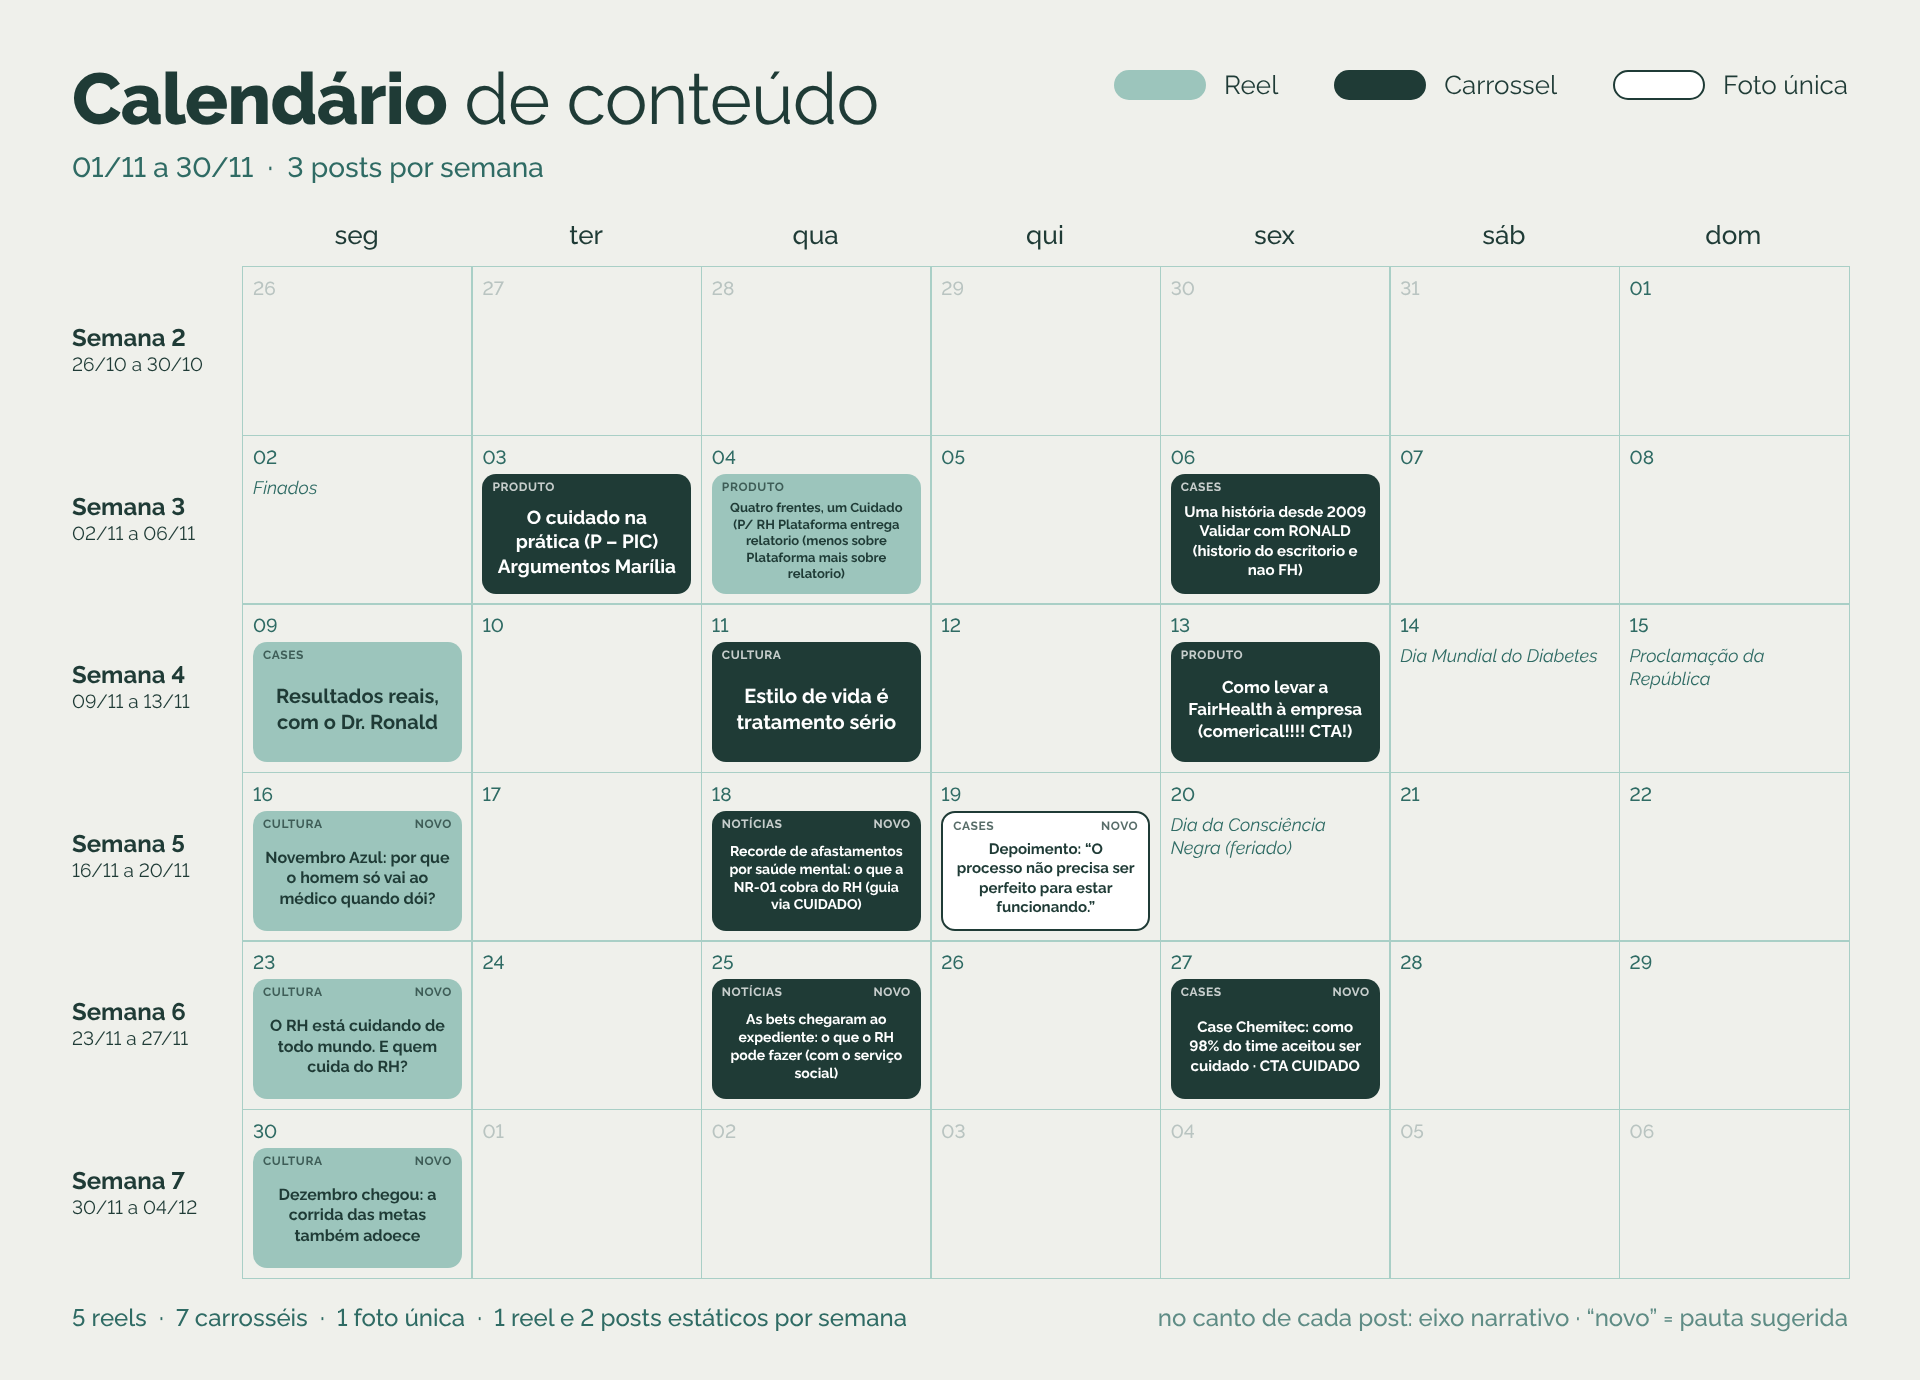
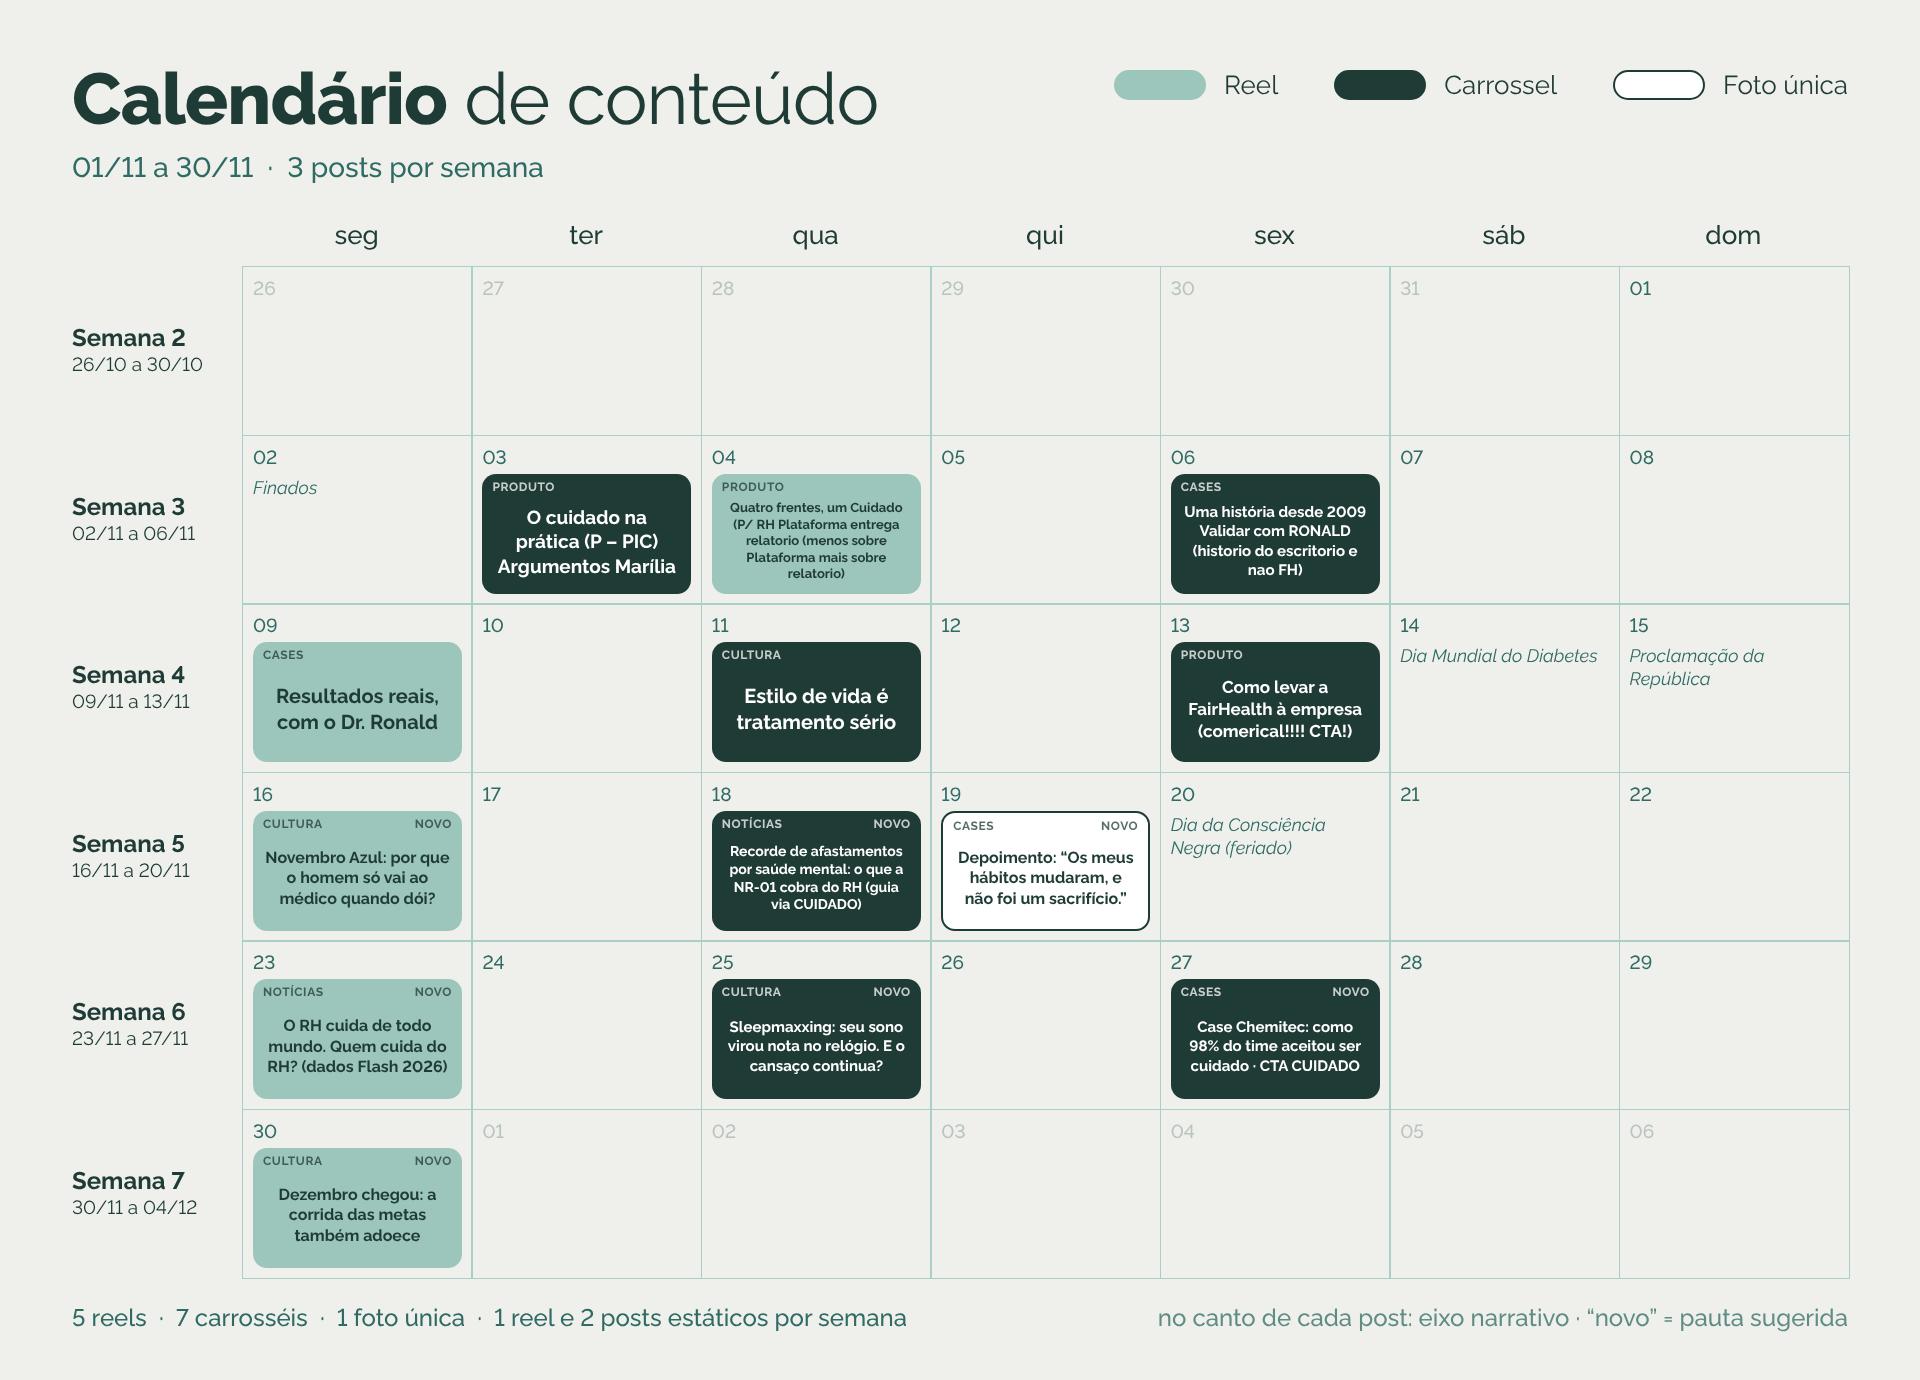
November calendar: swap bets topic, ground RH post in data, stronger testimonial
25/11 becomes the sleepmaxxing carousel, 23/11 is based on the 2026 HR
emotional health survey, 19/11 uses testimonial A2. Adds a bank of
current trending topics with sensitivity ratings to the playbook.

Claude-Session: https://claude.ai/code/session_01CtZHU3TZMahhA8PyMk16cb

Changed region(s): [[0.5, 0.592, 0.5938, 0.6855], [0.375, 0.7167, 0.4688, 0.779], [0.125, 0.7167, 0.25, 0.779]]

diff --git a/marketing/calendario-novembro/calendario.html b/marketing/calendario-novembro/calendario.html
@@ -67,9 +67,9 @@ const posts = {
   '2026-11-13': ['carrossel', 'Como levar a FairHealth à empresa (comerical!!!! CTA!)', 17, false, 'produto'],
   '2026-11-16': ['reel', 'Novembro Azul: por que o homem só vai ao médico quando dói?', 16, true, 'cultura'],
   '2026-11-18': ['carrossel', 'Recorde de afastamentos por saúde mental: o que a NR-01 cobra do RH (guia via CUIDADO)', 14, true, 'notícias'],
-  '2026-11-19': ['foto', 'Depoimento: “O processo não precisa ser perfeito para estar funcionando.”', 15, true, 'cases'],
-  '2026-11-23': ['reel', 'O RH está cuidando de todo mundo. E quem cuida do RH?', 16, true, 'cultura'],
-  '2026-11-25': ['carrossel', 'As bets chegaram ao expediente: o que o RH pode fazer (com o serviço social)', 14, true, 'notícias'],
+  '2026-11-19': ['foto', 'Depoimento: “Os meus hábitos mudaram, e não foi um sacrifício.”', 16, true, 'cases'],
+  '2026-11-23': ['reel', 'O RH cuida de todo mundo. Quem cuida do RH? (dados Flash 2026)', 16, true, 'notícias'],
+  '2026-11-25': ['carrossel', 'Sleepmaxxing: seu sono virou nota no relógio. E o cansaço continua?', 15, true, 'cultura'],
   '2026-11-27': ['carrossel', 'Case Chemitec: como 98% do time aceitou ser cuidado · CTA CUIDADO', 15, true, 'cases'],
   '2026-11-30': ['reel', 'Dezembro chegou: a corrida das metas também adoece', 16, true, 'cultura'],
 };

diff --git a/instagram/carrossel-de-tendencia.md b/instagram/carrossel-de-tendencia.md
@@ -45,7 +45,7 @@ alarmismo. A tendência é a porta de entrada. Quem resolve é o cuidado.
 | **Mercado** | O que está mudando na saúde corporativa e no RH | NR-01 e riscos psicossociais; reajuste do plano de saúde coletivo e sinistralidade; orçamento de 2027 | 1 por semana |
 | **Cases** | Quem fez e deu certo (ou errado) | Chemitec, Hospital Dia Santo Amaro, depoimentos em texto; empresas conhecidas que mudaram a forma de cuidar | 1 a cada 2 semanas |
 | **Cultura** | Comportamentos que o colaborador e o RH já estão vivendo | homem que adia o médico; esgotamento do próprio RH; canetas emagrecedoras; obsessão por dormir bem com wearables; corrida e clubes de corrida; fim de ano e metas | 1 por semana |
-| **Notícias** | O que acabou de sair e o que significa | dados de afastamento por saúde mental; novas regras ou fiscalização; pesquisas sobre bets, burnout, IA no trabalho | quando houver, com fonte |
+| **Notícias** | O que acabou de sair e o que significa | dados de afastamento por saúde mental; novas regras ou fiscalização; pesquisas sobre burnout, saúde do RH, IA no trabalho | quando houver, com fonte |
 | **Produto** | Como o Escritório do Cuidado resolve isso | método, as quatro frentes, o relatório para o RH, como começar | 1 por semana, de preferência amarrado a outro eixo |
 
 **Regra da combinação:** os melhores posts juntam dois eixos. Por exemplo,
@@ -72,9 +72,8 @@ O formato deles (afirmação + "como" + virada) adaptado para o nosso tom:
 - "O homem que só vai ao médico quando dói: por que isso ainda é regra nas empresas?"
 - "As canetas emagrecedoras viraram assunto no refeitório. O que elas não resolvem sozinhas?"
 - "O RH está cuidando de todo mundo. E quem cuida do RH?"
-- "Todo mundo quer dormir melhor e mede o sono no relógio. Por que o cansaço continua?"
+- "Seu sono virou nota no relógio. Por que o cansaço continua?"
 - "A corrida virou o novo happy hour. O que isso diz sobre o que o seu time procura?"
-- "As bets chegaram ao expediente. O que o RH pode fazer sem invadir a vida de ninguém?"
 - "98% do time aceitou ser cuidado: o que a Chemitec fez diferente?"
 
 ## 6. O que não fazemos (filtro antes de pegar uma tendência)
@@ -117,9 +116,9 @@ post.
 | --- | --- | --- | --- | --- |
 | 16/11 | Reel | Cultura | Novembro Azul: por que o homem só vai ao médico quando dói? | Cuidado perto do trabalho tira a barreira. |
 | 18/11 | Carrossel | Notícias + Mercado | Recorde de afastamentos por saúde mental: o que a NR-01 cobra do RH | Guia de NR-01 pela palavra CUIDADO. Confirmar o dado mais recente do INSS (número e ano) e a situação da NR-01 com o Dr. Ronald. |
-| 19/11 | Foto única | Cases | Depoimento B1 | Identificação e alívio. |
-| 23/11 | Reel | Cultura | O RH está cuidando de todo mundo. E quem cuida do RH? | Mande para alguém do RH (envio por DM). |
-| 25/11 | Carrossel | Notícias + Cultura | As bets chegaram ao expediente: o que o RH pode fazer | Papel do serviço social no Escritório do Cuidado. Só pesquisas com fonte. Sem julgamento do colaborador. |
+| 19/11 | Foto única | Cases | Depoimento A2: "Os meus hábitos mudaram, e não foi um sacrifício." | Mostra mudança real sem falar de resultado clínico. Logo coração. |
+| 23/11 | Reel | Notícias + Cultura | O RH cuida de todo mundo. Quem cuida do RH? | Base: Panorama da Saúde Emocional do RH 2026 (Flash e RH Summit, lançado no CONARH). Chamada: mande para alguém do RH. |
+| 25/11 | Carrossel | Cultura + Produto | Sleepmaxxing: seu sono virou nota no relógio. E o cansaço continua? | Nota de sono não é cuidado; o que fazemos com os dados da smartband junto com a pessoa. |
 | 27/11 | Carrossel | Cases + Produto | Case Chemitec: como 98% do time aceitou ser cuidado | Comente CUIDADO. Black Friday: sem linguagem de promoção. |
 | 30/11 | Reel | Cultura | Dezembro chegou: a corrida das metas também adoece | Uma prática de 1 minuto e um convite para cuidar antes do fim do ano. |
 
@@ -151,3 +150,19 @@ Na reunião semanal de métricas, antes de fechar a pauta da semana seguinte:
 4. Manter 20% da agenda livre para esses temas, como já prevê o plano.
 
 Para pesquisar Reels que estão funcionando no nicho, usar o `/ig-viral`.
+
+## 10. Banco de temas em alta (pesquisa de 22/10/2026)
+
+Conferir a fonte original antes de publicar qualquer número.
+
+| Tema | O que está acontecendo | Ângulo fairhealth | Sensibilidade |
+| --- | --- | --- | --- |
+| **Saúde do RH** | Panorama da Saúde Emocional do RH 2026 (Flash e RH Summit, mais de mil RHs): 64% sobrecarregados, 6 em cada 10 com algum problema de saúde mental, 17% dos coordenadores já tiveram burnout, 20% se sentem isolados. | Quem cuida de quem cuida (23/11). | Baixa |
+| **Sono medido no relógio (sleepmaxxing)** | Tendência de otimizar o sono com nota diária, gadgets e suplementos. Médicos alertam para soluções sem comprovação. | Nota não é cuidado; smartband com acompanhamento (25/11). | Baixa |
+| **Creatina fora da academia** | Virou item de supermercado; estudo de 2026 testou creatina após noite sem dormir, com efeito parcial. | Mito ou Evidência? Suplemento não substitui sono. | Baixa (revisão técnica) |
+| **Canetas mais baratas** | Patente da semaglutida expirou em março de 2026; versões nacionais e genéricos chegaram entre junho e setembro. | O hábito ainda decide (sugestão para 11/11). | Média: sem marca, dose ou indicação; revisão do Dr. Ronald |
+| **Afastamentos por saúde mental** | 546,2 mil licenças por transtornos mentais em 2025, segundo recorde seguido (Ministério da Previdência, via g1). | NR-01 além da planilha (18/11). | Média: sem alarmismo |
+| **Fim da escala 6x1** | Senado aprovou a PEC em 14/10/2026 (44 para 40 horas, dois dias de folga). Vai à promulgação. | Descanso também é saúde: o que fazer com a folga. Só depois da eleição e só pelo ângulo de saúde. | Alta: tema político em período eleitoral |
+| **Geração Z e desconexão** | "Gen Z stare", "task masking"; só 23% dos jovens se dizem engajados (Gallup). | O que está por trás do desengajamento. | Média: sem estereótipo |
+| **Cuidar de quem cuida no hospital** | Estudos brasileiros apontam burnout alto na enfermagem, ligado a sobrecarga e falta de pessoal, e a mais erros e menos empatia no atendimento. | Ponte com o case do Hospital Dia Santo Amaro. | Baixa, mas usar estudo com fonte e amostra |
+| **Bets** | Tema forte, mas delicado. | Fica para depois. | Alta |
